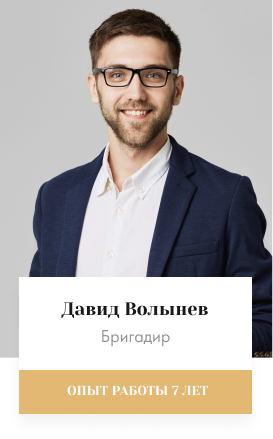
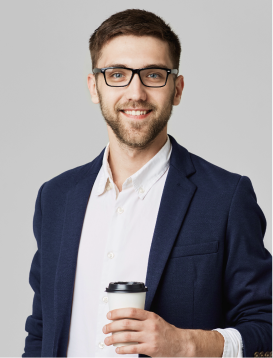
refact: stylized team section

diff --git a/index.html b/index.html
@@ -444,6 +444,57 @@
           </div>
           <!-- /.section-text designs__section-text -->
         </div>
+        <div class="row team__row">
+          <div class="col-30 wow fadeInUp" data-wow-delay = "1s">
+            <div class="card team__card">
+              <img src="img/team1.1.jpg" alt="" class="image team__image">
+              <img src="img/Group 22.png" alt="" class="icon team__icon">
+              <div class="team__box">
+                <div class="team__box-inner">
+                  <strong class="team__box-title team__box-title--bottom">Алексей Колмаков</strong>
+                <span class="team__box-text team__box-text--bottom">Проектный менеджер</span>
+                </div>
+                <span class="team__box-info">Опыт работы 8 лет</span>
+              </div>
+            </div>
+            <!-- /.card team__card -->
+          </div>
+          <!-- /.col-30 -->
+          <div class="col-30 wow fadeInUp" data-wow-delay = "1.2s">
+            <div class="card team__card">
+              <img src="img/team1.2.jpg" alt="" class="image team__image">
+              <img src="img/Group 21.png" alt="" class="icon team__icon">
+              <div class="team__box">
+                <div class="team__box-inner">
+                  <strong class="team__box-title team__box-title--bottom">Алиса Сухорукова</strong>
+                <span class="team__box-text team__box-text--bottom">Дизайнер</span>
+                </div>
+                
+                <span class="team__box-info">Опыт работы 6 лет</span>
+              </div>
+            </div>
+            <!-- /.card team__card -->
+          </div>
+          <!-- /.col-30 -->
+          <div class="col-30 wow fadeInUp" data-wow-delay = "1.4s">
+            <div class="card team__card team__card--madia">
+              <img src="img/team1.3.jpg" alt="" class="image team__image">
+              <img src="img/Group 23.png" alt="" class="icon team__icon">
+              <div class="team__box">
+                <div class="team__box-inner">
+                  <strong class="team__box-title team__box-title--bottom">Давид Волынев</strong>
+                  <span class="team__box-text team__box-text--bottom">Бригадир</span>
+                </div>
+                
+                <span class="team__box-info">Опыт работы 7 лет</span>
+              </div>
+            </div>
+            <!-- /.card team__card -->
+          </div>
+          <!-- /.col-30 -->
+        </div>
+        <!-- /.rew -->
+        <p class="team-text wow fadeIn" data-wow-delay = "1.6s">Каждый сотрудник нашей компании является квалифицированным штатным специалистом с опытом работы от 6 лет. У нас нет гастарбайтеров, каждый сотрудник выполняет работу, соответствующую его специальности.Каждый сотрудник нашей компании является квалифицированным штатным специалистом с опытом работы от 6 лет. У нас нет гастарбайтеров, каждый сотрудник выполняет работу, соответствующую его специальности.</p>
       </div>
       <!-- /.container -->
     </section>
@@ -452,7 +503,7 @@
   </main>
   <footer class="footer section--dark">
     <div class="container">
-      <div class="footer__wrap">
+      <div class="footer__wrap wow fadeIn" data-wow-delay = "0.4s">
         <div class="footer-title">Остались вопросы?</div>
         <form action="" class="form footer__form">
           <div class="input-group footer__input-group">

diff --git a/css/style.css b/css/style.css
@@ -462,7 +462,7 @@ img {
       font-family: Yeseva One, cursive;
       font-style: normal;
       font-weight: 200;
-      font-size: 1.92rem;
+      font-size: 1.52rem;
       line-height: 2.64rem;
       letter-spacing: -1.2px; }
       .section-title__heading--primary {
@@ -859,7 +859,79 @@ img {
 
 .team__section-text {
   max-width: 32rem;
-  margin: auto; }
+  margin: auto;
+  margin-bottom: 5rem; }
+
+.team__row {
+  margin-bottom: 7.5rem; }
+
+.team__card {
+  position: relative; }
+
+.team__icon {
+  position: absolute;
+  top: -50px;
+  left: -55px; }
+
+.team__box {
+  position: absolute;
+  bottom: -58px;
+  left: 40px;
+  max-width: 18.642rem;
+  background-color: #fff; }
+  .team__box-inner {
+    padding: 1.571rem 1.9rem 0 1.9rem; }
+  .team__box-title {
+    display: block;
+    color: #131313;
+    font-family: Yeseva One;
+    font-style: normal;
+    font-weight: normal;
+    font-size: 1.285rem;
+    line-height: 1.785rem;
+    text-align: center; }
+    .team__box-title--bottom {
+      margin-bottom: 0.4rem; }
+  .team__box-text {
+    display: block;
+    color: #959595;
+    font-style: normal;
+    font-weight: normal;
+    font-size: 1.285rem;
+    line-height: 1.857rem;
+    text-align: center; }
+    .team__box-text--bottom {
+      margin-bottom: 1.414rem; }
+  .team__box-info {
+    display: block;
+    background-color: #E3B873;
+    padding: 1.1rem 1.642rem;
+    font-family: Yeseva One;
+    font-style: normal;
+    font-weight: normal;
+    font-size: 0.928rem;
+    line-height: 1.428rem;
+    text-align: center;
+    text-transform: uppercase;
+    color: #fff; }
+
+.team-text {
+  max-width: 45.57rem;
+  margin: auto;
+  font-style: norma;
+  font-weight: normal;
+  font-size: 1.428rem;
+  line-height: 2.428rem;
+  text-align: center; }
+  .team-text::before {
+    content: '';
+    display: block;
+    margin: auto;
+    margin-bottom: 2.2rem;
+    width: 55px;
+    height: 2px;
+    background-color: #E3B873;
+    border-radius: 30%; }
 
 .footer {
   position: relative;
@@ -1072,6 +1144,18 @@ img {
         justify-content: start; }
     .control__button {
       margin-bottom: -22px; }
+  .team {
+    paddin-bottom: 0;
+    background-color: #131313;
+    color: #fff; }
+    .team__card {
+      margin-bottom: 11.93rem; }
+      .team__card--madia {
+        margin-bottom: 0; }
+    .team-text {
+      display: none; }
+  .section-text {
+    color: #fff; }
   .footer {
     background-image: none;
     background-color: #131313; }

diff --git a/sass/templates/_team.sass b/sass/templates/_team.sass
@@ -2,3 +2,71 @@
   &__section-text
     max-width: 32rem
     margin: auto
+    margin-bottom: 5rem
+  &__row
+    margin-bottom: 7.5rem
+  &__card
+    position: relative
+  &__icon
+    position: absolute
+    top: -50px
+    left: -55px
+  &__box
+    position: absolute
+    bottom: -58px
+    left: 40px
+    max-width: 18.642rem
+    background-color: $light
+    &-inner
+      padding: 1.571rem 1.9rem 0 1.9rem
+    &-title
+      display: block
+      color: $dark
+      font-family: Yeseva One
+      font-style: normal
+      font-weight: normal
+      font-size: 1.285rem
+      line-height: 1.785rem
+      text-align: center
+
+      &--bottom
+        margin-bottom: 0.4rem
+    &-text
+      display: block
+      color: $gray
+      font-style: normal
+      font-weight: normal
+      font-size: 1.285rem
+      line-height: 1.857rem
+      text-align: center
+      &--bottom
+        margin-bottom: 1.414rem
+    &-info
+      display: block
+      background-color: $primary
+      padding: 1.1rem 1.642rem
+      font-family: Yeseva One
+      font-style: normal
+      font-weight: normal
+      font-size: 0.928rem
+      line-height: 1.428rem
+      text-align: center
+      text-transform: uppercase
+      color: $light
+  &-text
+    max-width: 45.57rem
+    margin: auto
+    font-style: norma
+    font-weight: normal
+    font-size: 1.428rem
+    line-height: 2.428rem
+    text-align: center
+    &::before
+      content: ''
+      display: block
+      margin: auto
+      margin-bottom: 2.2rem
+      width: 55px
+      height: 2px
+      background-color: $primary
+      border-radius: 30%

diff --git a/sass/_media.sass b/sass/_media.sass
@@ -81,6 +81,19 @@
         justify-content: start
     &__button
       margin-bottom: -22px
+  .team
+    paddin-bottom: 0
+    background-color: $dark
+    color: $light
+    &__card
+      margin-bottom: 11.93rem
+      &--madia
+        margin-bottom: 0
+    &-text
+      display: none
+  .section
+    &-text 
+      color: $light
   .footer
     background-image: none
     background-color: $dark

diff --git a/sass/_settings.sass b/sass/_settings.sass
@@ -39,7 +39,7 @@ img
       font-family: Yeseva One, cursive
       font-style: normal
       font-weight: 200
-      font-size: 1.92rem
+      font-size: 1.52rem
       line-height: 2.64rem
       letter-spacing: -1.2px
       &--primary

diff --git a/sass/_variables.sass b/sass/_variables.sass
@@ -4,3 +4,4 @@ $light: #fff
 $primary: #E3B873
 $secondary: #959595
 $ternary: #363636
+$gray: #959595
